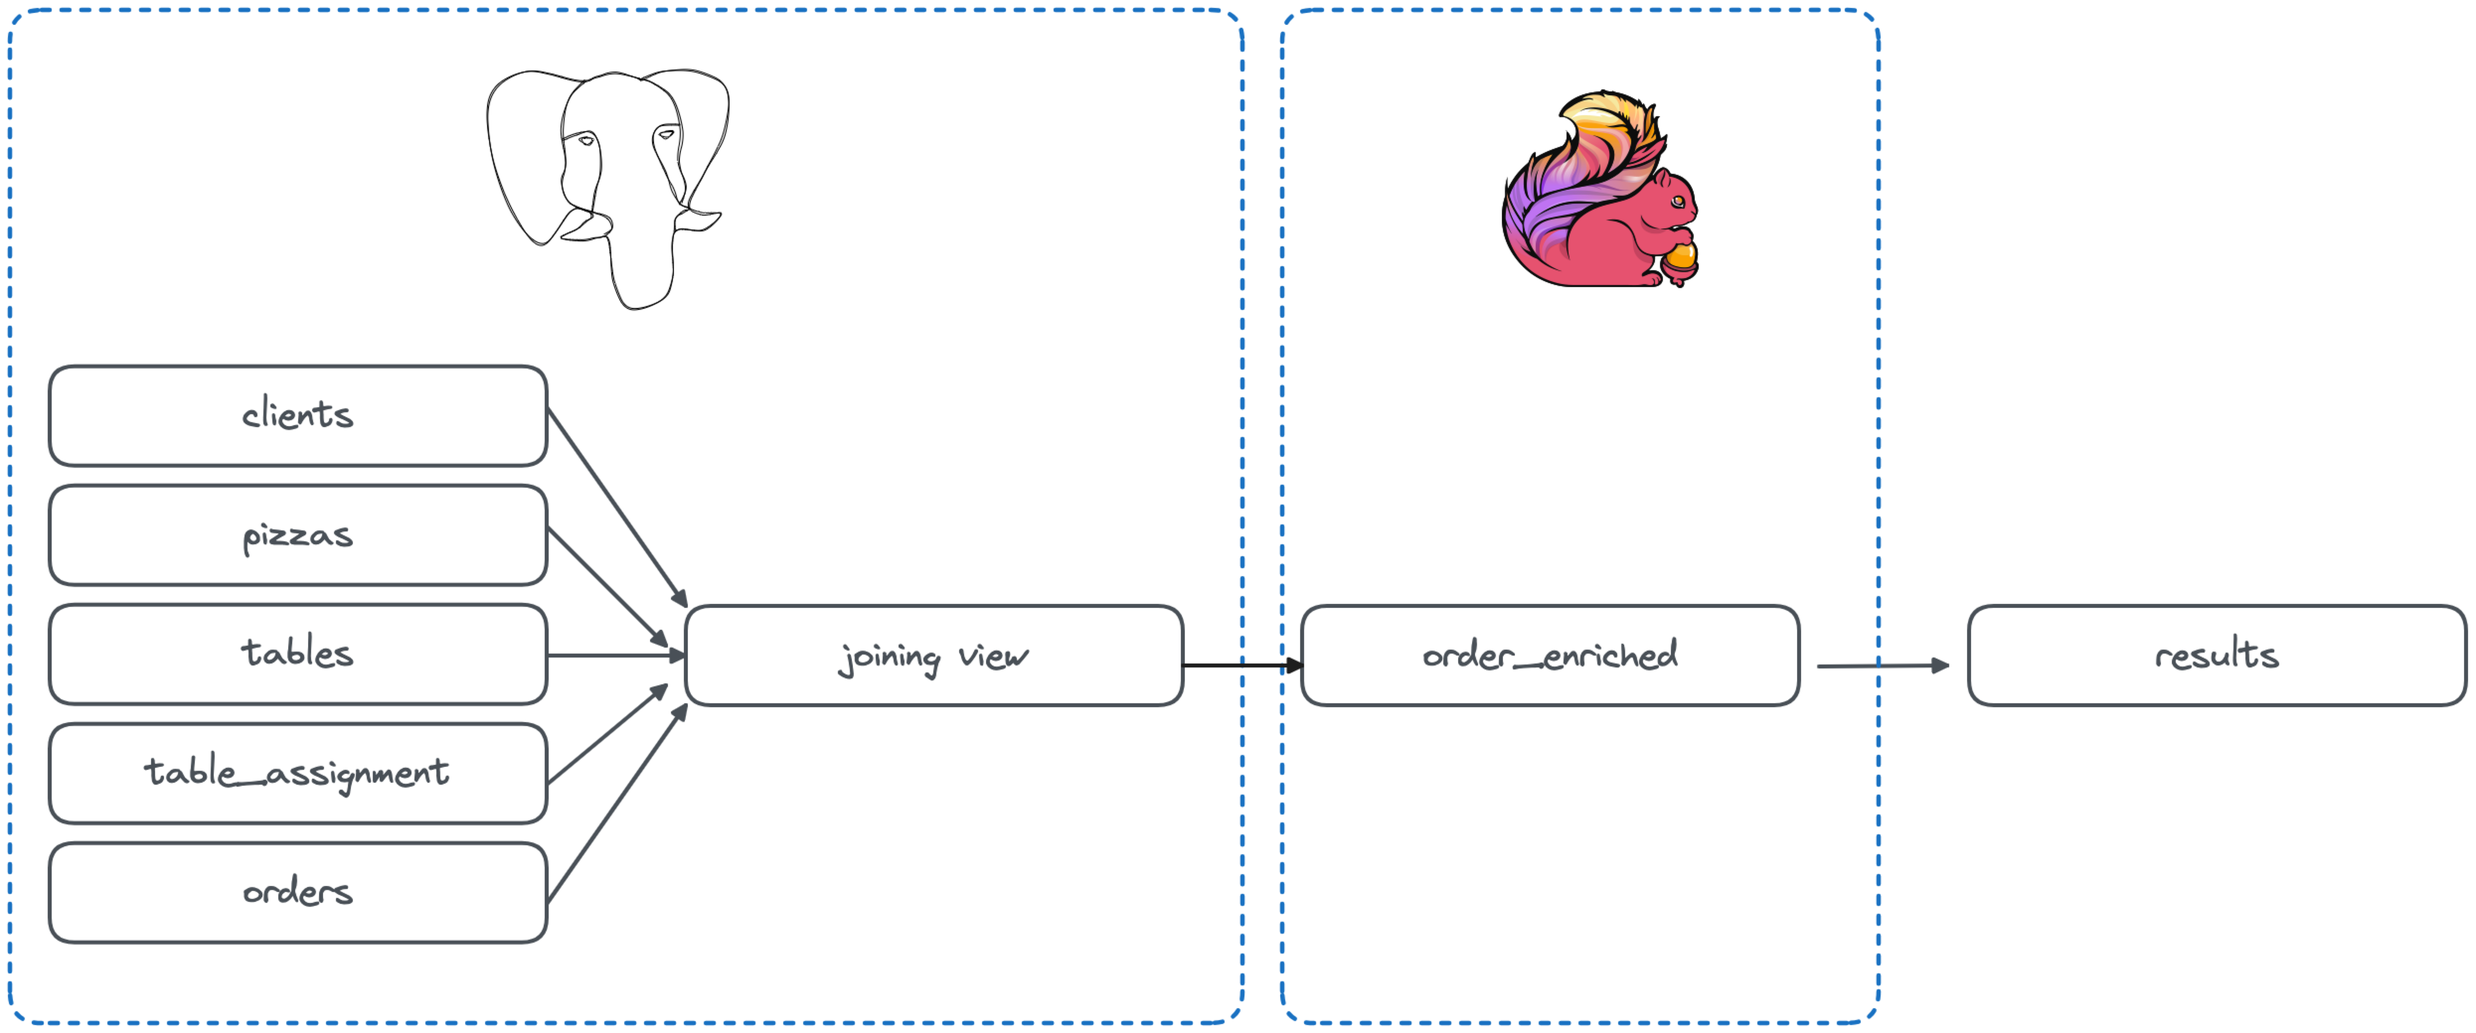
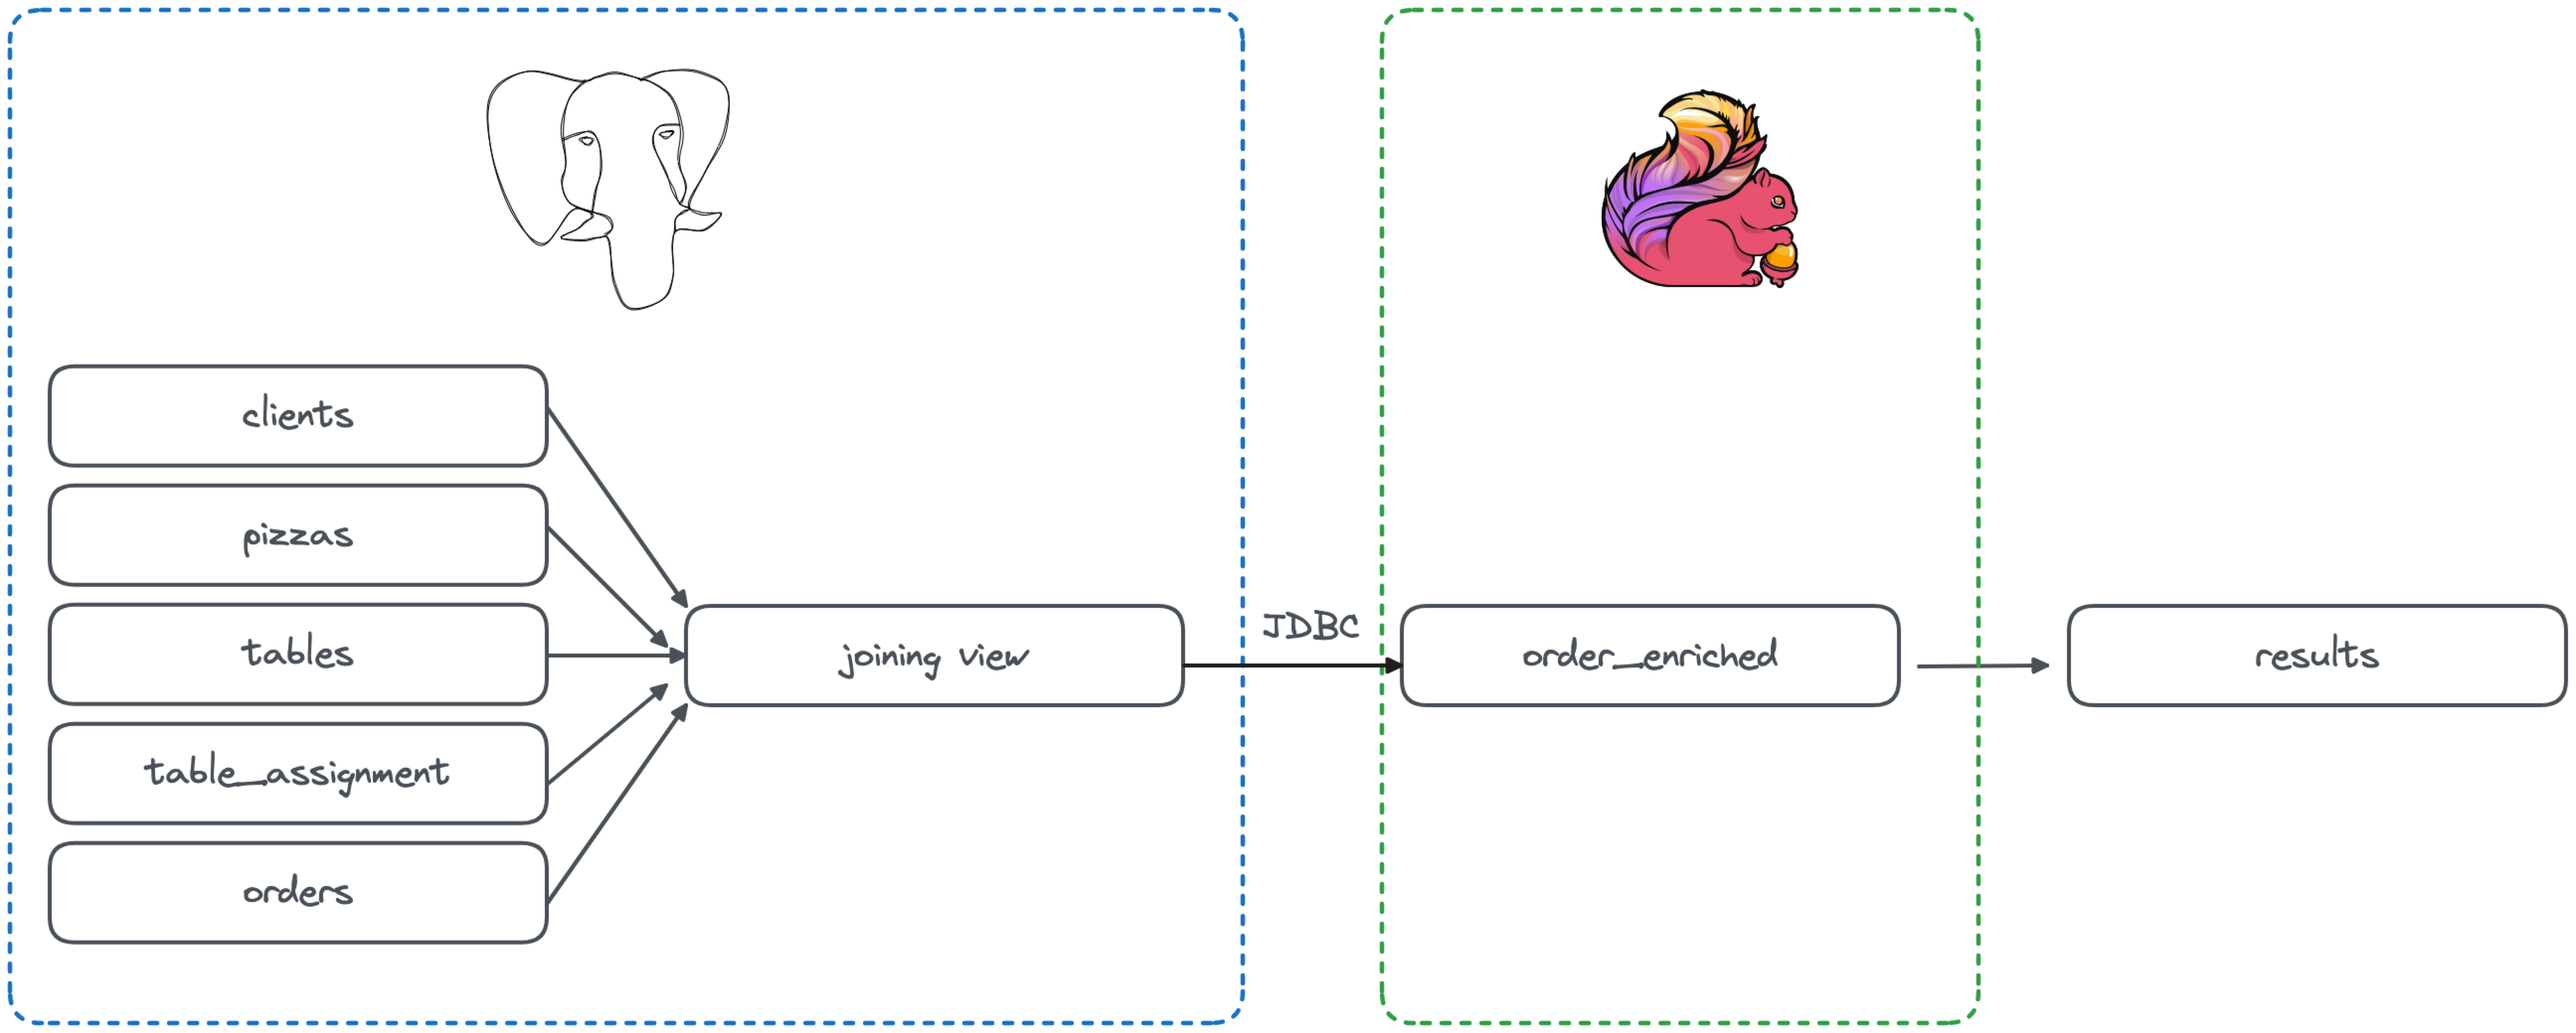
Adding 3rd scenario

diff --git a/README.md b/README.md
@@ -194,7 +194,50 @@ Cons:
 * ❌ No streaming, basically using Flink as ETL tool replacement
 * ❌ Possible problems when moving huge amount of data at once using the JDBC connector
 
+3rd scenario: CDC connector against the `orders` table + JDBC lookup to the PostgreSQL view
+-------------------------------------------------------------------------------------------
 
+In the third scenario, we start moving towards the streaming phase. We do it by keeping the PostgreSQL view, but having Flink to reach to each order submitted by creating a dedicated Change Data Capture (CDC) flow.
+
+We can achieve the CDC using:
+
+* the [Apache Flink CDC connector for PostgreSQL](https://docs.aiven.io/docs/products/flink/howto/pg-cdc-connector)
+* including Apache Kafka in the picture and creating a [Debezium Source connector to PostgreSQL](https://docs.aiven.io/docs/products/kafka/kafka-connect/howto/debezium-source-connector-pg)
+
+![Flink with a CDC connector to the orders table and JDBC connector to the view](/img/flink-cdc-order-jdbc.png)
+
+Check out how to implement the [Unique JDBC connector against a PostgreSQL view with Aiven for Apache Flink](how-to-aiven/02-view-based-jdbc.md). 
+
+![Kafka CDC PostgreSQL - Flink with a Kafka connector to the orders topic and JDBC connector to the view](/img/kafka-cdc-flink-kafka-jdbc.png)
+
+
+In this case, since the joining logic is defined in PostgreSQL, the result Flink SQL is very minimal, with a filter to select only the latest changes:
+
+
+```sql
+insert into order_output
+select 
+  order_id, 
+  client_name, 
+  table_name, 
+  pizzas 
+from order_enriched_in 
+where 
+  order_time > CEIL(LOCALTIMESTAMP to hour) - interval '1' hour 
+  and order_time <= CEIL(LOCALTIMESTAMP to hour)
+```
+
+**Pro and Cons of the solution**
+
+
+Pro:
+
+* ✅ We achieved consistency, compared to the previous solution
+
+Cons:
+* ❌ Still batching
+* ❌ No streaming, basically using Flink as ETL tool replacement
+* ❌ Possible problems when moving huge amount of data at once using the JDBC connector
 
 License
 ============
